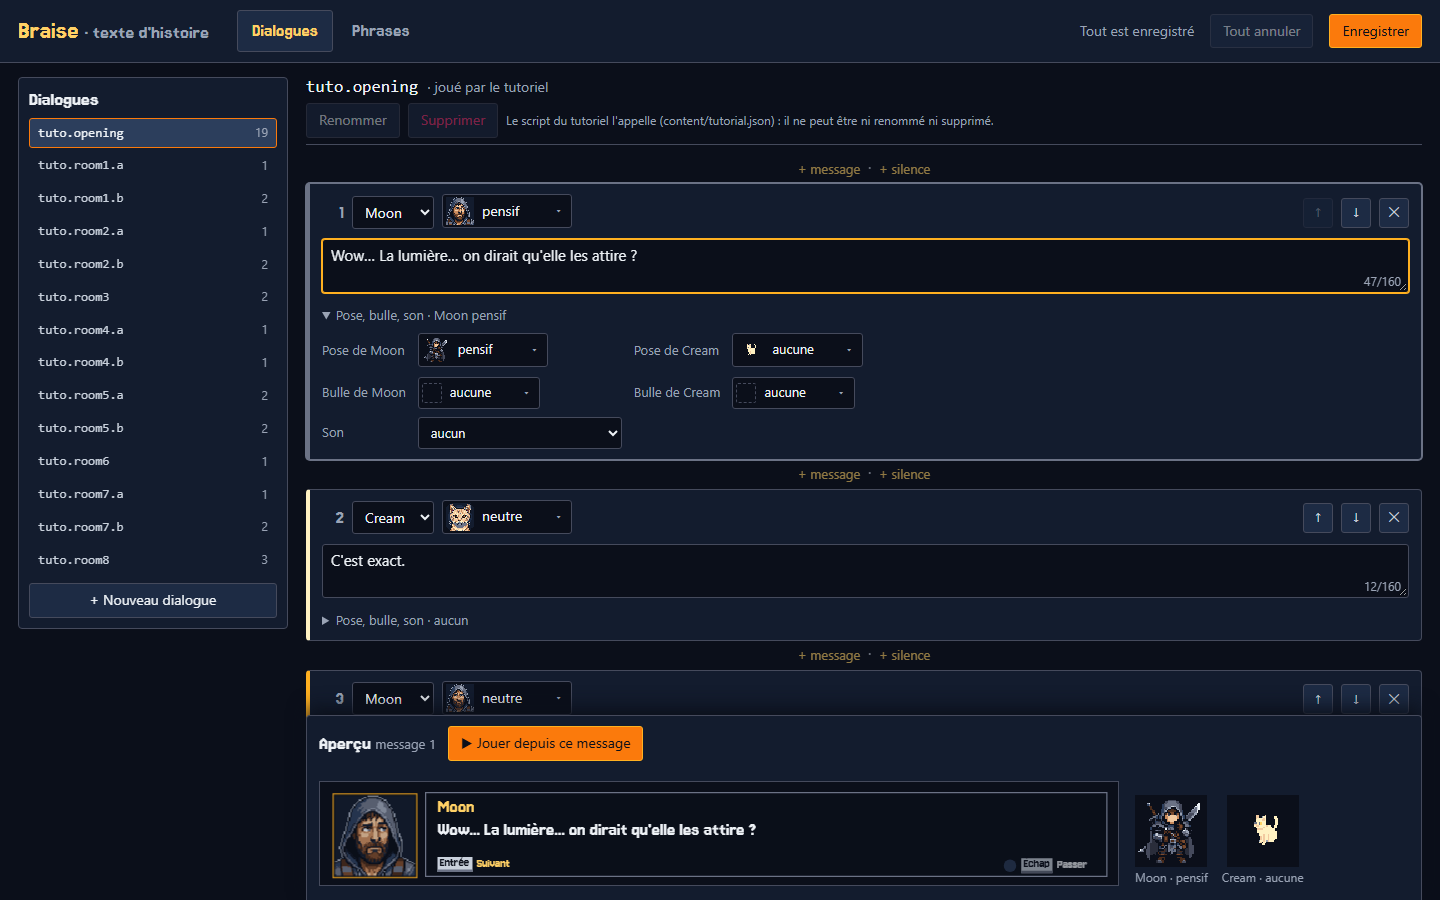
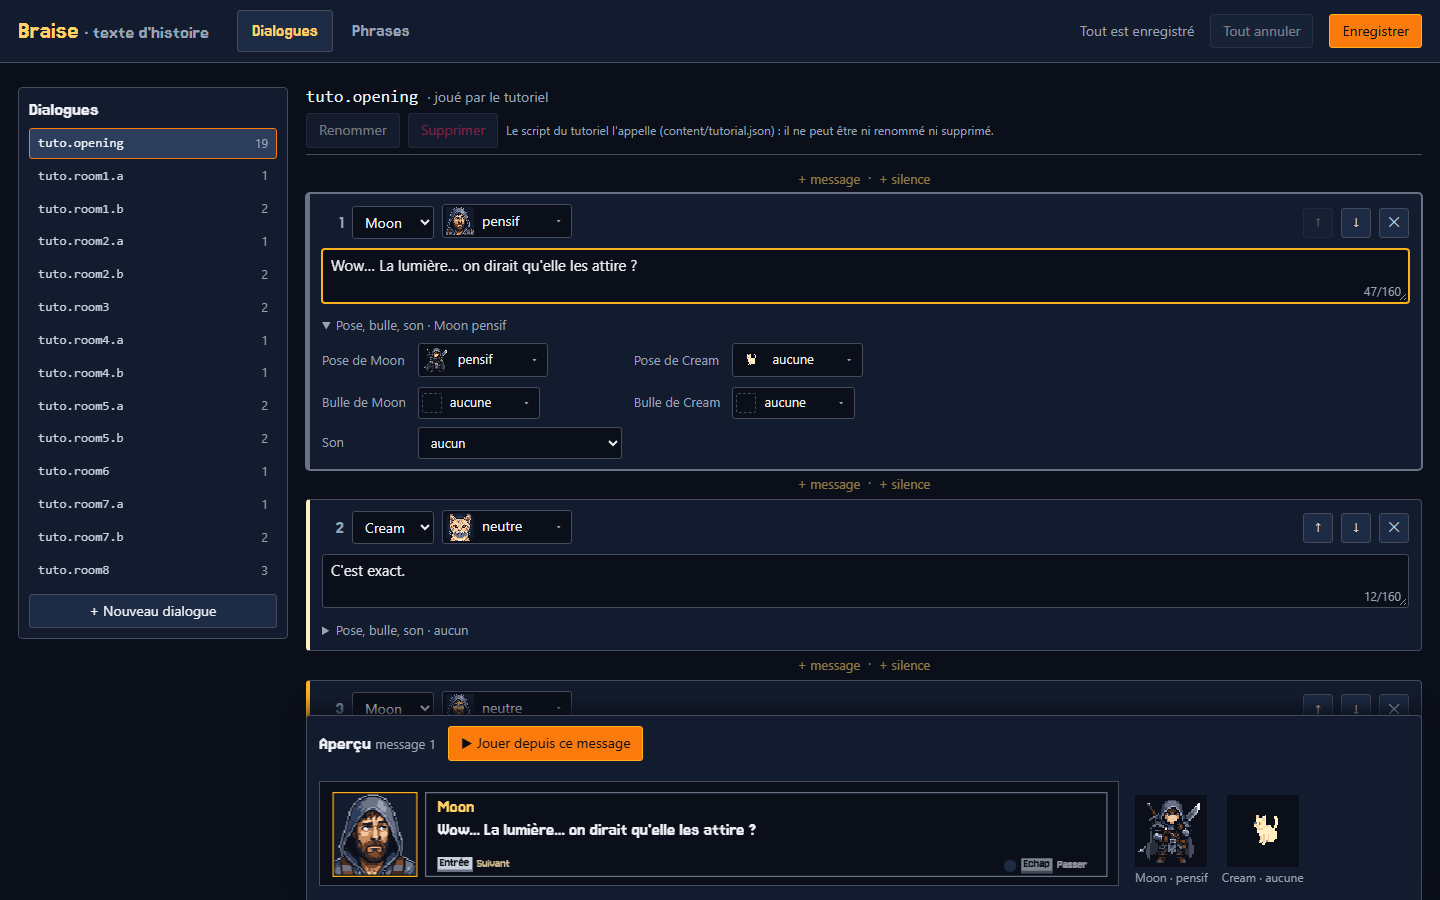
test(editeur): captures sans le chemin de la copie de test

diff --git a/packages/braise/tests/editor/editeur.spec.ts b/packages/braise/tests/editor/editeur.spec.ts
@@ -166,6 +166,8 @@ test('nouveau dialogue, onglet Phrases et captures', async ({ page }) => {
   await page.getByLabel('Texte, message 1', { exact: true }).click();
   const evidence = process.env.BRAISE_EVIDENCE === '1';
   if (evidence) mkdirSync(EVIDENCE, { recursive: true });
+  // Le bandeau de la copie de test montre un chemin de la machine : il ne va pas dans une capture versionnée.
+  await page.addStyleTag({ content: '.ed-override { display: none !important; }' });
   await page.screenshot({ path: evidence ? join(EVIDENCE, '01-dialogues.png') : test.info().outputPath('01-dialogues.png') });
 
   await page.getByRole('tab', { name: 'Phrases' }).click();
